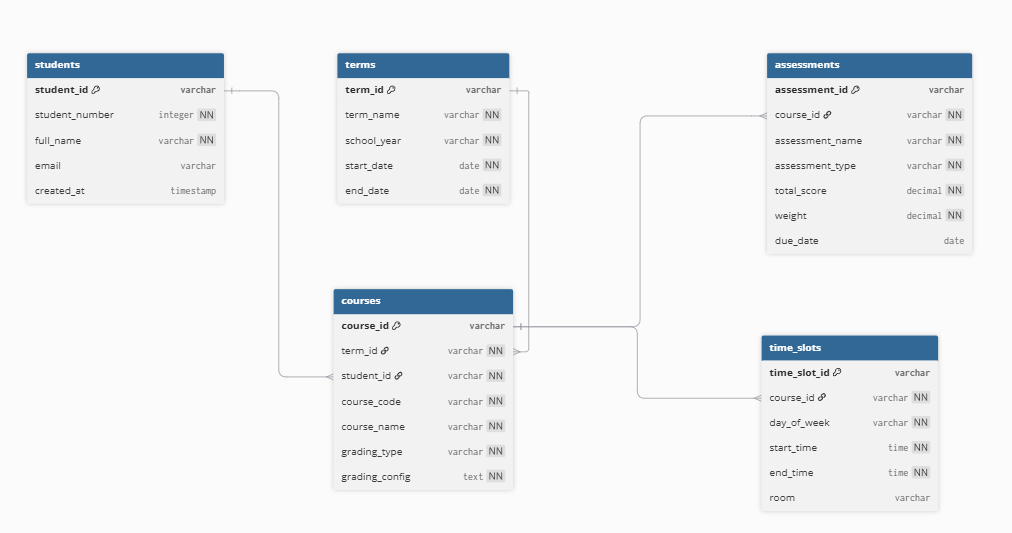
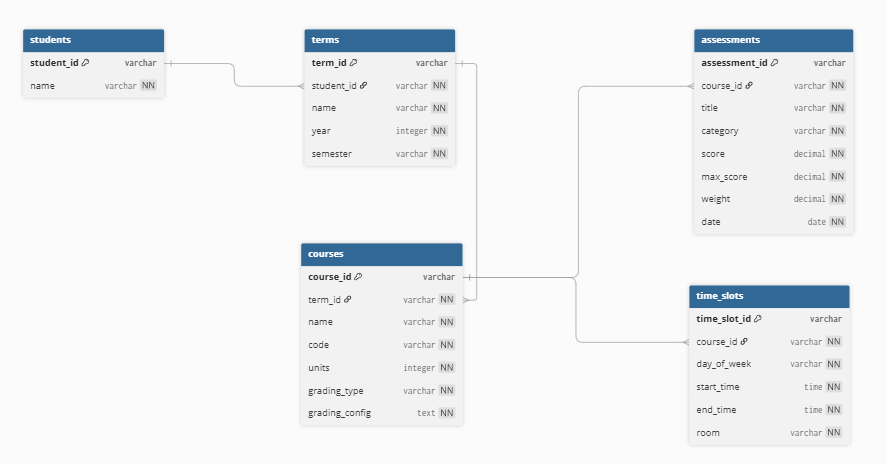
docs: correct markdown and SchemaDiagram files

diff --git a/docs/AcademiQSQL.md b/docs/AcademiQSQL.md
@@ -1,33 +1,41 @@
-AcademiQ
-SQLite Schema Design
+# AcademiQ
+
+## SQLite Schema Design
 
 ## Table Definitions
 
 ## 1. `students` Table
 
-Stores student profile information.
+Stores basic student information.
 
-| Column         | Type    | Constraint                | Description                  |
-| -------------- | ------- | ------------------------- | ---------------------------- |
-| student_id     | VARCHAR | PRIMARY KEY AUTOINCREMENT | Unique student ID            |
-| student_number | TEXT    | UNIQUE NOT NULL           | School-issued student number |
-| full_name      | TEXT    | NOT NULL                  | Student full name            |
-| email          | TEXT    | UNIQUE                    | Student email                |
-| created_at     | TEXT    | DEFAULT CURRENT_TIMESTAMP | Date created                 |
+| Column     | Type | Constraint  | Description                                       |
+| ---------- | ---- | ----------- | ------------------------------------------------- |
+| student_id | TEXT | PRIMARY KEY | Student ID from `Student(String name, String id)` |
+| name       | TEXT | NOT NULL    | Student full name                                 |
 
 ---
 
 ## 2. `terms` Table
 
-Stores school terms or semesters.
+Stores the student’s academic terms.
 
-| Column      | Type    | Constraint                | Description           |
-| ----------- | ------- | ------------------------- | --------------------- |
-| term_id     | VARCHAR | PRIMARY KEY AUTOINCREMENT | Unique term ID        |
-| term_name   | TEXT    | NOT NULL                  | Example: 1st Semester |
-| school_year | TEXT    | NOT NULL                  | Example: 2025–2026    |
-| start_date  | TEXT    | NOT NULL                  | Term start date       |
-| end_date    | TEXT    | NOT NULL                  | Term end date         |
+| Column     | Type    | Constraint           | Description                      |
+| ---------- | ------- | -------------------- | -------------------------------- |
+| term_id    | TEXT    | PRIMARY KEY          | Unique term ID                   |
+| student_id | TEXT    | FOREIGN KEY NOT NULL | References `students.student_id` |
+| name       | TEXT    | NOT NULL             | Term name                        |
+| year       | INTEGER | NOT NULL             | Academic year                    |
+| semester   | TEXT    | NOT NULL             | Semester name                    |
+
+**Foreign Key Rule:**
+
+```sql
+FOREIGN KEY (student_id) REFERENCES students(student_id)
+ON DELETE CASCADE
+ON UPDATE CASCADE
+```
+
+Meaning: if a student is deleted, the student’s related terms are also deleted.
 
 ---
 
@@ -35,29 +43,25 @@ Stores school terms or semesters.
 
 Stores course or subject information.
 
-| Column         | Type    | Constraint                | Description                |
-| -------------- | ------- | ------------------------- | -------------------------- |
-| course_id      | VARCHAR | PRIMARY KEY AUTOINCREMENT | Unique course ID           |
-| term_id        | VARCHAR | FOREIGN KEY               | References `terms.term_id` |
-| student_id     | VARCHAR | FOREIGN KEY               | References `students.student_id` |
-| course_code    | TEXT    | NOT NULL                  | Example: IT101             |
-| course_name    | TEXT    | NOT NULL                  | Course title               |
-| grading_type   | TEXT    | NOT NULL                  | Type of grading used       |
-| grading_config | TEXT    | NOT NULL                  | JSON-style grading rules   |
+| Column         | Type    | Constraint           | Description                         |
+| -------------- | ------- | -------------------- | ----------------------------------- |
+| course_id      | TEXT    | PRIMARY KEY          | Unique course ID                    |
+| term_id        | TEXT    | FOREIGN KEY NOT NULL | References `terms.term_id`          |
+| name           | TEXT    | NOT NULL             | Course name                         |
+| code           | TEXT    | NOT NULL             | Course code                         |
+| units          | INTEGER | NOT NULL             | Number of units                     |
+| grading_type   | TEXT    | NOT NULL             | Type of grading policy used         |
+| grading_config | TEXT    | NOT NULL             | Stored grading policy configuration |
 
 **Foreign Key Rule:**
 
 ```sql
-    FOREIGN KEY (term_id) REFERENCES terms(term_id)
-    ON DELETE CASCADE
-    ON UPDATE CASCADE
-
-    FOREIGN KEY (student_id) REFERENCES students(student_id)
-    ON DELETE CASCADE
-    ON UPDATE CASCADE
+FOREIGN KEY (term_id) REFERENCES terms(term_id)
+ON DELETE CASCADE
+ON UPDATE CASCADE
 ```
 
-Meaning: if a term is deleted, its courses are also deleted.
+Meaning: if a term is deleted, its related courses are also deleted.
 
 ---
 
@@ -65,22 +69,23 @@ Meaning: if a term is deleted, its courses are also deleted.
 
 Stores quizzes, exams, projects, and other graded activities.
 
-| Column          | Type    | Constraint                | Description                    |
-| --------------- | ------- | ------------------------- | ------------------------------ |
-| assessment_id   | VARCHAR | PRIMARY KEY AUTOINCREMENT | Unique assessment ID           |
-| course_id       | VARCHAR | FOREIGN KEY               | References `courses.course_id` |
-| assessment_name | TEXT    | NOT NULL                  | Example: Midterm Exam          |
-| assessment_type | TEXT    | NOT NULL                  | Quiz, Exam, Project, etc.      |
-| total_score     | REAL    | NOT NULL                  | Highest possible score         |
-| weight          | REAL    | NOT NULL                  | Percentage weight              |
-| due_date        | TEXT    |                           | Optional deadline              |
+| Column        | Type | Constraint           | Description                         |
+| ------------- | ---- | -------------------- | ----------------------------------- |
+| assessment_id | TEXT | PRIMARY KEY          | Unique assessment ID                |
+| course_id     | TEXT | FOREIGN KEY NOT NULL | References `courses.course_id`      |
+| title         | TEXT | NOT NULL             | Assessment title                    |
+| category      | TEXT | NOT NULL             | Quiz, exam, project, activity, etc. |
+| score         | REAL | NOT NULL             | Student’s earned score              |
+| max_score     | REAL | NOT NULL             | Highest possible score              |
+| weight        | REAL | NOT NULL             | Assessment weight                   |
+| date          | TEXT | NOT NULL             | Assessment date                     |
 
 **Foreign Key Rule:**
 
 ```sql
-    FOREIGN KEY (course_id) REFERENCES courses(course_id)
-    ON DELETE CASCADE
-    ON UPDATE CASCADE
+FOREIGN KEY (course_id) REFERENCES courses(course_id)
+ON DELETE CASCADE
+ON UPDATE CASCADE
 ```
 
 Meaning: if a course is deleted, its assessments are also deleted.
@@ -91,26 +96,34 @@ Meaning: if a course is deleted, its assessments are also deleted.
 
 Stores class schedules.
 
-| Column       | Type    | Constraint                | Description                    |
-| ------------ | ------- | ------------------------- | ------------------------------ |
-| time_slot_id | VARCHAR | PRIMARY KEY AUTOINCREMENT | Unique schedule ID             |
-| course_id    | VARCHAR | FOREIGN KEY               | References `courses.course_id` |
-| day_of_week  | TEXT    | NOT NULL                  | Monday, Tuesday, etc.          |
-| start_time   | TEXT    | NOT NULL                  | Class start time               |
-| end_time     | TEXT    | NOT NULL                  | Class end time                 |
-| room         | TEXT    |                           | Classroom or location          |
+| Column       | Type | Constraint           | Description                    |
+| ------------ | ---- | -------------------- | ------------------------------ |
+| time_slot_id | TEXT | PRIMARY KEY          | Unique time slot ID            |
+| course_id    | TEXT | FOREIGN KEY NOT NULL | References `courses.course_id` |
+| day_of_week  | TEXT | NOT NULL             | Day of the week                |
+| start_time   | TEXT | NOT NULL             | Class start time               |
+| end_time     | TEXT | NOT NULL             | Class end time                 |
+| room         | TEXT | NOT NULL             | Classroom or location          |
+
+**Foreign Key Rule:**
 
 ```sql
-    FOREIGN KEY (course_id) REFERENCES courses(course_id)
-    ON DELETE CASCADE
-    ON UPDATE CASCADE
+FOREIGN KEY (course_id) REFERENCES courses(course_id)
+ON DELETE CASCADE
+ON UPDATE CASCADE
 ```
 
-**Cascade Rule Summary**
+Meaning: if a course is deleted, its schedules are also deleted.
+
+---
+
+## Cascade Rule Summary
+
 | Relationship              | Cascade Rule                               |
 | ------------------------- | ------------------------------------------ |
+| `students` → `terms`      | Delete student = delete related terms      |
 | `terms` → `courses`       | Delete term = delete related courses       |
 | `courses` → `assessments` | Delete course = delete related assessments |
 | `courses` → `time_slots`  | Delete course = delete related schedules   |
 
-
+---
